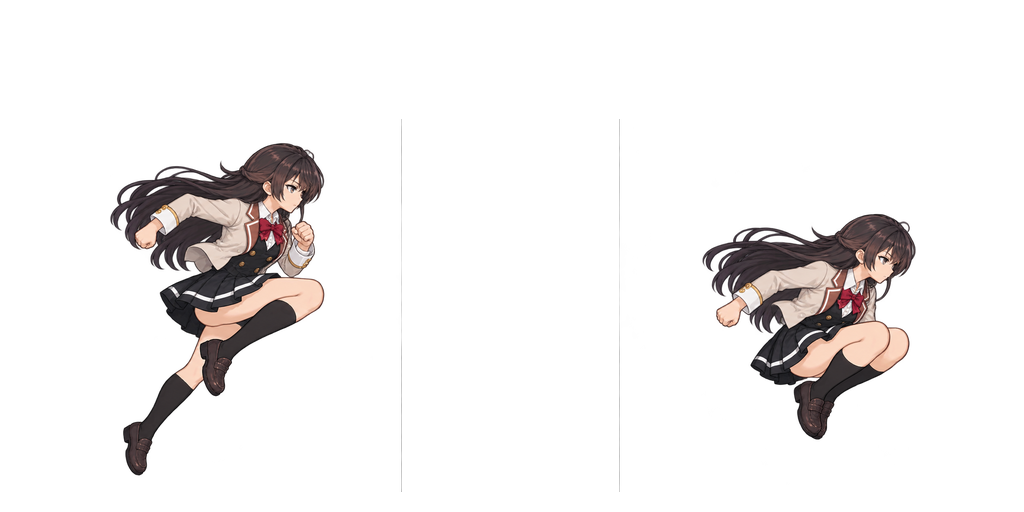
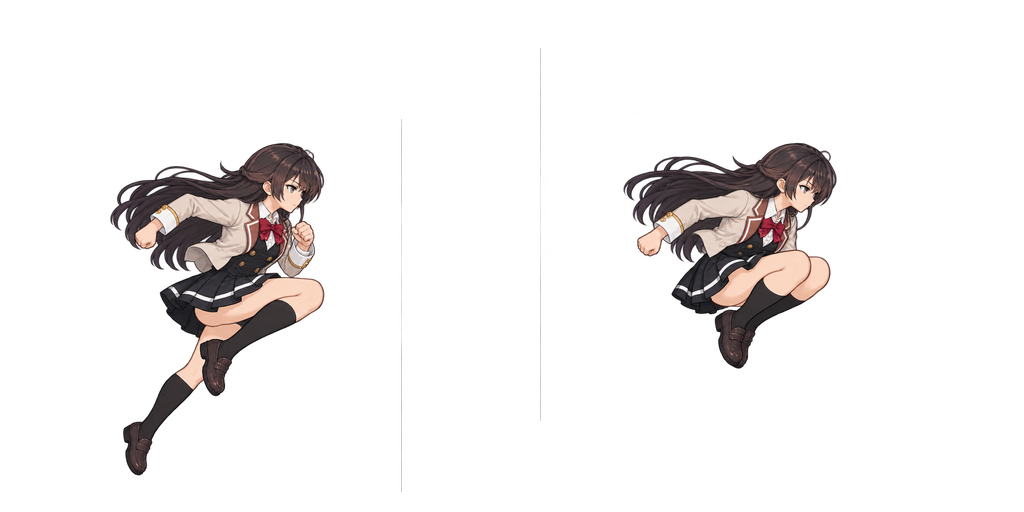
commt

Changed region(s): [[0.5938, 0.2812, 0.9062, 0.875]]

diff --git a/src/capsule-preview.ts b/src/capsule-preview.ts
@@ -44,6 +44,19 @@ if(!localStorage.getItem(jumpMatchKey)){
  }
  draftRun();localStorage.setItem(jumpMatchKey,'done');
 }
+// Update only the shifted Yuki jump frame; preserve other editor drafts.
+const jumpAlignKey=storageKey+'-yuki-jump-aligned-v1';
+if(!localStorage.getItem(jumpAlignKey)){
+ localStorage.setItem(jumpAlignKey+'-backup',localStorage.getItem(storageKey)??'{}');
+ edits['yuki/jump/1']=structuredClone((sourceEdits as CapsuleEdits)['yuki/jump/1']);
+ draftRun();localStorage.setItem(jumpAlignKey,'done');
+}
+const anJumpAlignKey=storageKey+'-an-jump-aligned-v1';
+if(!localStorage.getItem(anJumpAlignKey)){
+ localStorage.setItem(anJumpAlignKey+'-backup',localStorage.getItem(storageKey)??'{}');
+ edits['an/jump/1']=structuredClone((sourceEdits as CapsuleEdits)['an/jump/1']);
+ draftRun();localStorage.setItem(anJumpAlignKey,'done');
+}
 const authoredFrame=()=>Number(frame.value)-1;
 const selectedKey=()=>`${who.value}/${action.value}/${authoredFrame()}`;
 let selected=0;
